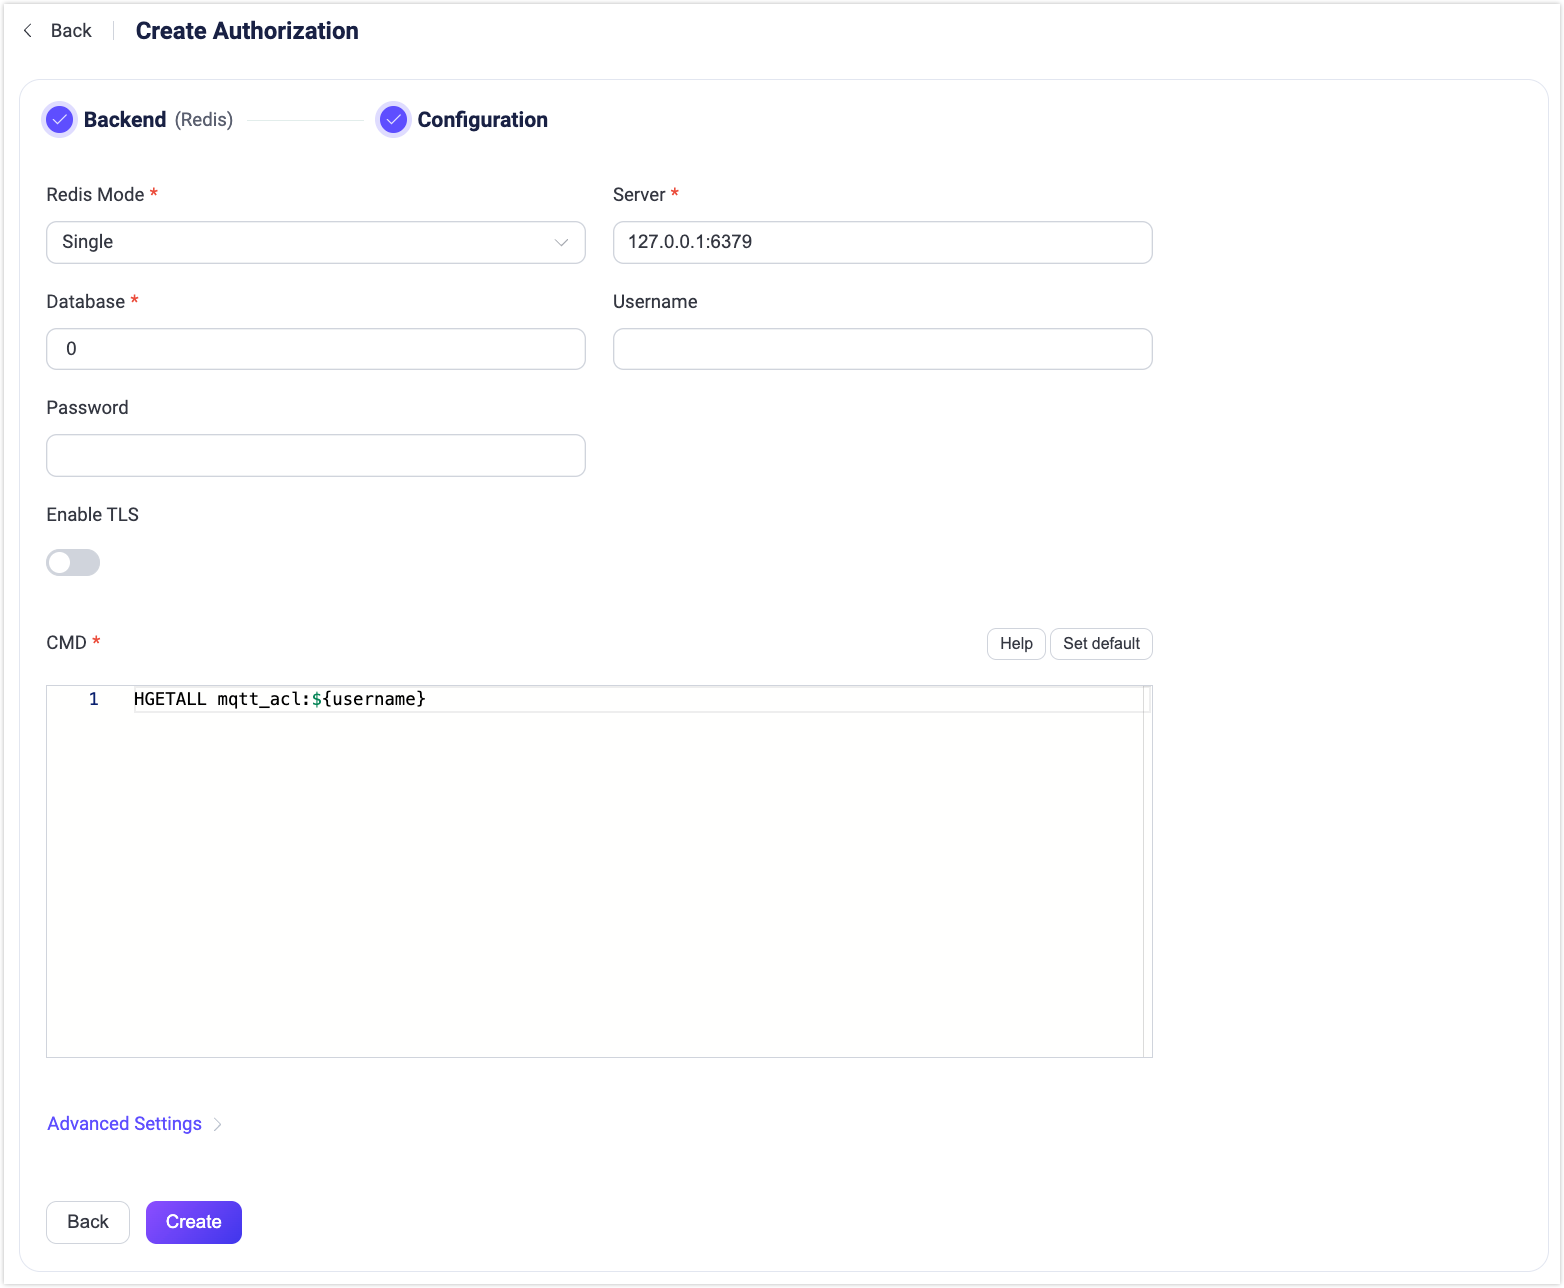
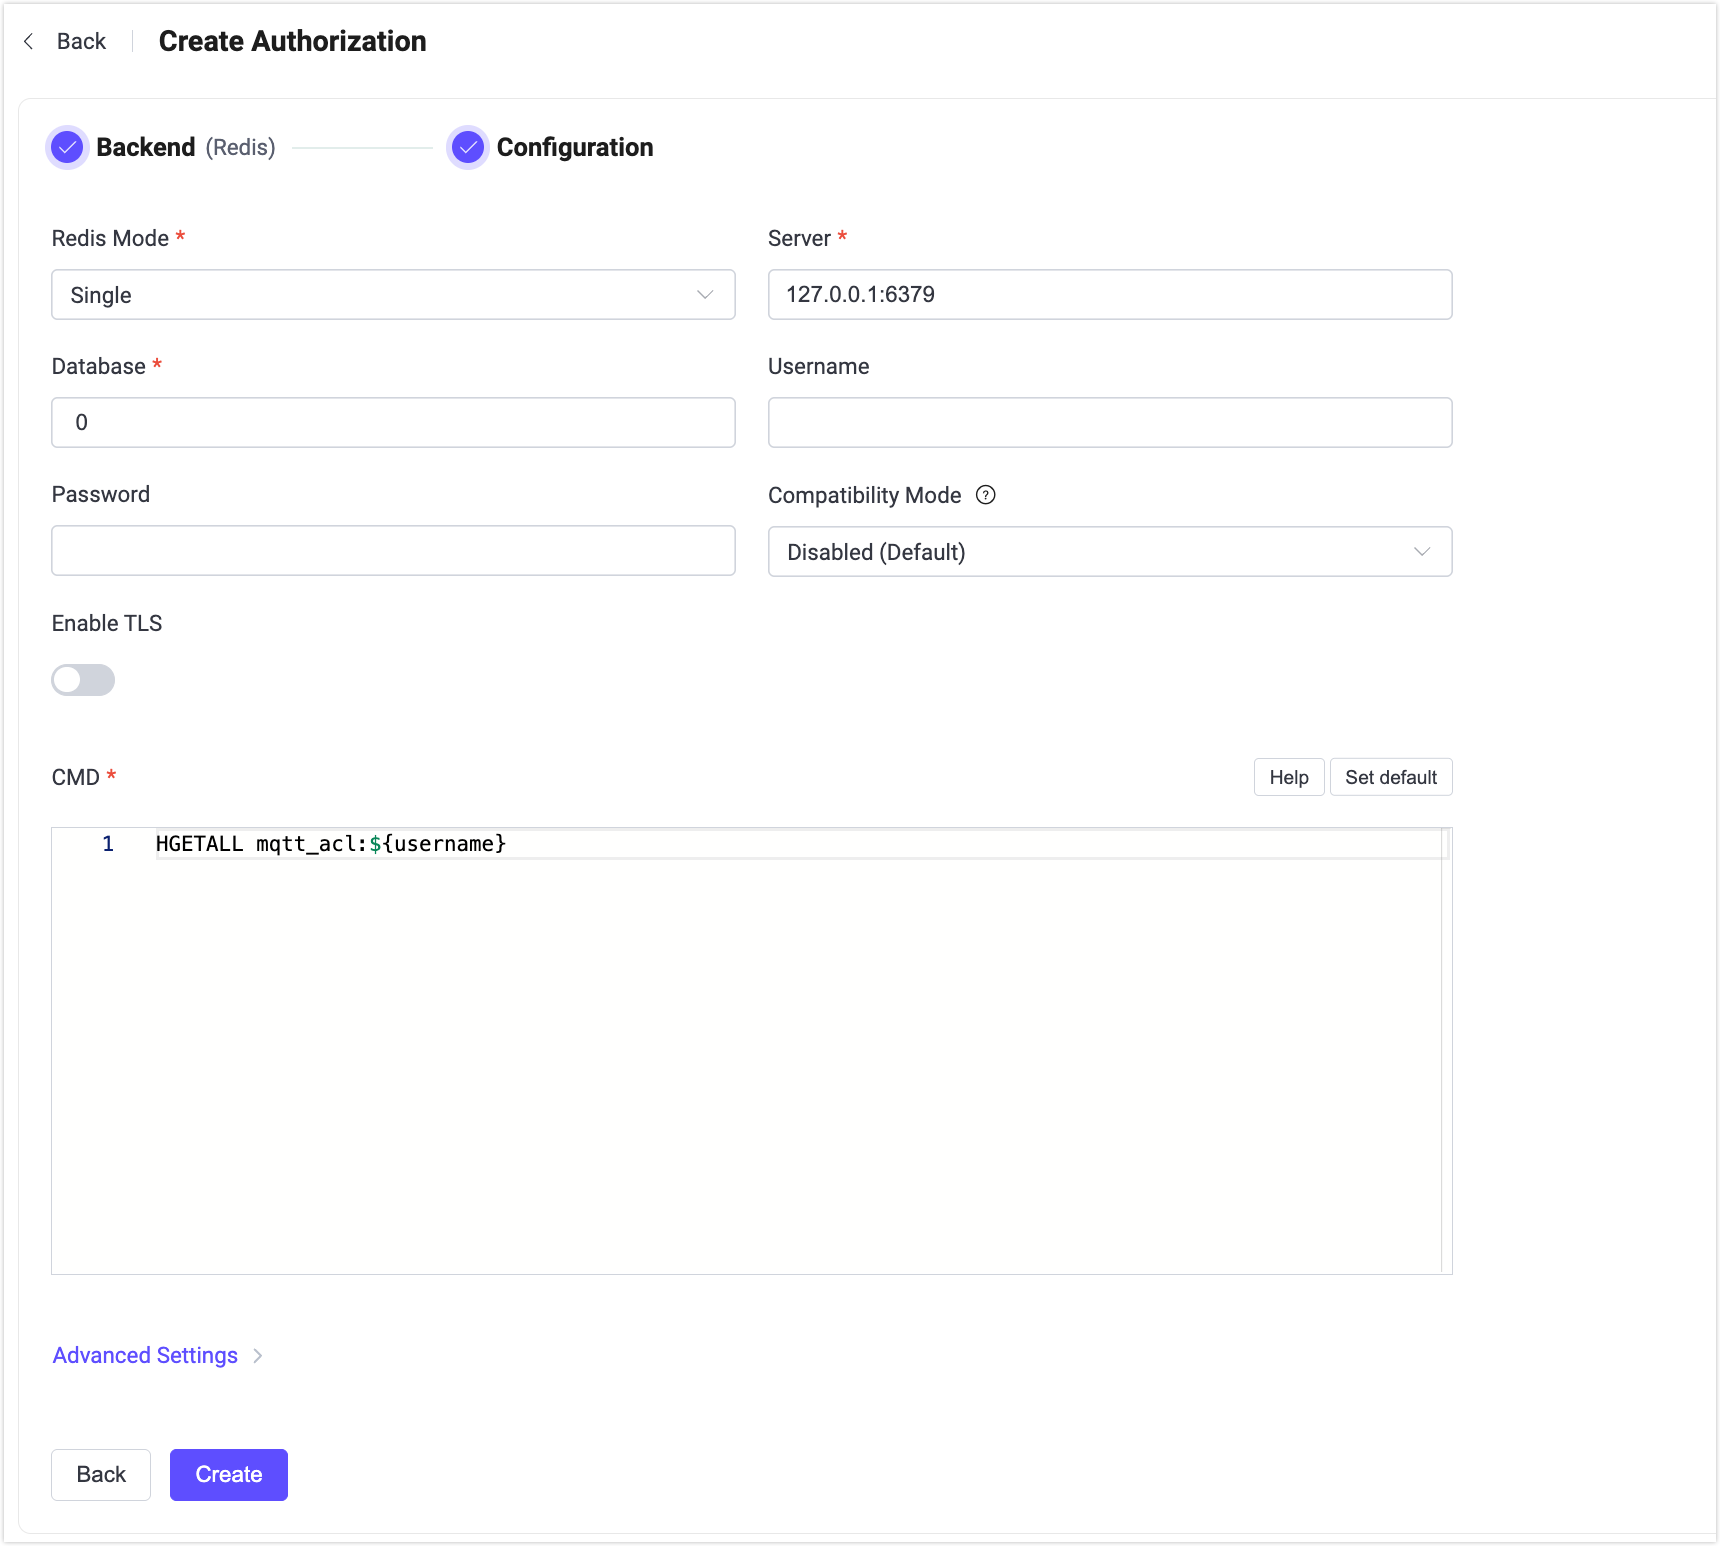
update(Redis authz): Add `Compatibility Mode` config
https://github.com/emqx/emqx/pull/16730

diff --git a/zh_CN/access-control/authz/redis.md b/zh_CN/access-control/authz/redis.md
@@ -77,10 +77,21 @@ Redis 授权器中添加的所有规则都是**允许**规则，即 Redis Author
      - 如果填写了用户名，则密码必须与 Redis ACL 中该用户配置的凭据一致。
      - 如果未填写用户名，则将使用该密码尝试以 `default` 用户身份进行身份认证（前提是该用户未被禁用）。
    
+   - **兼容模式**：控制是否启用与 EMQX 4.x Redis ACL 数据格式的兼容。
+
+     - `禁用（默认）`：使用当前规则格式。
+     - `v4`：启用对 EMQX 4.x 旧版 Redis ACL 数据的兼容，升级时可直接复用已有数据，无需修改。
+   
+     ::: tip
+   
+     该选项适用于从 EMQX 4.x 升级的场景，用于在不调整现有 Redis ACL 数据的情况下保持兼容。对于新部署，建议保持默认设置，并使用当前规则格式。
+   
+     :::
+   
    - **启用 TLS**：如果需要启用 TLS，加上开关即可开启。有关 TLS 配置的更多信息，请参阅[网络与 TLS](../../network/overview.md)。
-
+   
    - **命令**：根据数据结构填写 Redis 查询命令。
-
+   
    - **高级设置**：设置连接池大小和连接超时时间。
      - **连接池大小**（可选）：输入一个整数，表示每个 EMQX 节点与 Redis 建立的并发连接数量。默认值为 `8`。
    
@@ -88,13 +99,13 @@ Redis 授权器中添加的所有规则都是**允许**规则，即 Redis Author
 
 ## 使用配置项配置
 
-Redis 授权器由 `type=redis` 标识。<!--详细配置请参考 [redis_standalone](../../configuration/configuration-manual.html#authz:redis_standalone)、[authz:redis_sentinel](../../configuration/configuration-manual.html#authz:redis_sentinel) 与 [authz:redis_cluster](../../configuration/configuration-manual.html#authz:redis_cluster)。-->
+Redis 授权器由 `type=redis` 标识。
 
 Redis 授权器支持 3 种部署模式的 Redis。
 
 Standalone Redis:
 
-```hcl
+```hocon
 {
     type = redis
 
@@ -104,13 +115,14 @@ Standalone Redis:
     cmd = "HGETALL mqtt_user:${username}"
     database = 1
     password = public
-
+    
+    compatibility_mode = disabled
 }
 ```
 
 [Redis Sentinel](https://redis.io/docs/latest/operate/oss_and_stack/management/sentinel/):
 
-```hcl
+```hocon
 {
     type = redis
 
@@ -121,13 +133,14 @@ Standalone Redis:
     cmd = "HGETALL mqtt_user:${username}"
     database = 1
     password = public
-
+    
+    compatibility_mode = disabled
 }
 ```
 
 [Redis Cluster](https://redis.io/docs/latest/operate/oss_and_stack/management/scaling/):
 
-```hcl
+```hocon
 {
     type = redis
 
@@ -136,6 +149,8 @@ Standalone Redis:
 
     cmd = "HGETALL mqtt_user:${username}"
     password = public
+    
+    compatibility_mode = disabled
 }
 ```
 
@@ -149,7 +164,7 @@ Standalone Redis:
 
 ### cmd
 
-必选的字符串类型配置项。用于指定查询权限规则的命令，支持使用占位符。主题过滤器中允许使用 [主题占位符](./authz.md#主题占位符)。
+必选的字符串类型配置项。用于指定查询权限规则的命令，支持使用占位符。主题过滤器中允许使用[主题占位符](./authz.md#主题占位符)。
 
 ### database
 
@@ -157,7 +172,7 @@ Standalone Redis:
 
 ### password
 
-可选的字符串类型配置。指定用于 Redis [认证](https://redis.io/docs/latest/operate/oss_and_stack/management/security/#authentication) 的密码。
+可选的字符串类型配置。指定用于 Redis [认证](https://redis.io/docs/latest/operate/oss_and_stack/management/security/#authentication)的密码。
 
 ### auto_reconnect
 
@@ -191,4 +206,4 @@ Standalone Redis:
 
 #### sentinel
 
-必选的字符串类型配置。用于指定 Redis Sentinel 配置需要的 [主服务器名称](https://redis.io/docs/latest/operate/oss_and_stack/management/sentinel/#configuring-sentinel)。
+必选的字符串类型配置。用于指定 Redis Sentinel 配置需要的[主服务器名称](https://redis.io/docs/latest/operate/oss_and_stack/management/sentinel/#configuring-sentinel)。

diff --git a/en_US/access-control/authz/redis.md b/en_US/access-control/authz/redis.md
@@ -64,8 +64,11 @@ You can use EMQX Dashboard to configure how to use Redis for user authorization.
 3. Follow the instructions below to configure the settings.
 
    - **Redis Mode**: Select how Redis is deployed, including `Single`, `Sentinel` and `Cluster`.
+
    - **Server**: Specify the server address that EMQX is to connect (`host:port`).
+
    - **Database**: Redis database name.
+
    - **Username**: Specify the Redis username to connect with. This field is required if your Redis instance uses [Redis ACL](https://redis.io/docs/latest/operate/oss_and_stack/management/security/acl/#create-and-edit-user-acls-with-the-acl-setuser-command) (introduced in Redis 6.0) for authentication. If your Redis server uses the default user (with ACLs disabled or not enforced), you can leave this field blank.
 
      ::: tip
@@ -73,10 +76,22 @@ You can use EMQX Dashboard to configure how to use Redis for user authorization.
      The `username` field is supported starting from EMQX 5.2.0. Ensure your deployment is running this version or later to use Redis ACL.
 
      :::
+     
    - **Password**: Specify the password for the Redis user. The field is required for connecting to Redis instances with authentication enabled.
 
      - If you have entered a username, this password must match the credentials configured in your Redis ACL settings.
      - If no username is provided, this password will be used to authenticate as the `default` user (if enabled).
+
+   - **Compatibility Mode**: Controls whether to enable compatibility with the EMQX 4.x Redis ACL data format.
+
+     - `Disabled (Default)`: Use the current rule format.
+     - `v4`: Enable compatibility with legacy EMQX 4.x Redis ACL data, allowing reuse of existing data without modification during upgrades.
+
+     ::: tip
+
+     This option is intended for upgrade scenarios where existing Redis ACL data created by EMQX 4.x must be reused without modification. For new deployments, it is recommended to keep this option disabled and use the current rule format.
+
+     :::
 
    - **Enable TLS**: Turn on the toggle switch if you want to enable TLS. 
 
@@ -91,7 +106,7 @@ You can use EMQX Dashboard to configure how to use Redis for user authorization.
 
 You can configure the EMQX Redis authorizer with EMQX configuration items.
 
-The Redis authorizer is identified by type `redis`. The authorizer supports connecting to Redis running in 3 types of deployment modes. <!--For detailed configuration information, see: [redis_single](../../configuration/configuration-manual.html#authz:redis_single), [authz:redis_sentinel](../../configuration/configuration-manual.html#authz:redis_sentinel), and [authz:redis_cluster](../../configuration/configuration-manual.html#authz:redis_cluster).-->
+The Redis authorizer is identified by type `redis`. The authorizer supports connecting to Redis running in 3 types of deployment modes. 
 
 Sample configuration:
 
@@ -99,7 +114,7 @@ Sample configuration:
 
 ::: tab Single
 
-```bash
+```hocon
 {
     type = redis
 
@@ -109,7 +124,8 @@ Sample configuration:
     cmd = "HGETALL mqtt_user:${username}"
     database = 1
     password = public
-
+    
+    compatibility_mode = disabled
 }
 ```
 
@@ -117,7 +133,7 @@ Sample configuration:
 
 ::: tab Sentinel
 
-```bash
+```hocon
 {
     type = redis
 
@@ -128,7 +144,8 @@ Sample configuration:
     cmd = "HGETALL mqtt_user:${username}"
     database = 1
     password = public
-
+    
+    compatibility_mode = disabled
 }
 ```
 
@@ -136,7 +153,7 @@ Sample configuration:
 
 ::: tab Cluster
 
-```bash
+```hocon
 {
     type = redis
 
@@ -145,9 +162,13 @@ Sample configuration:
 
     cmd = "HGETALL mqtt_user:${username}"
     password = public
+    
+    compatibility_mode = disabled
 }
 ```
 
 :::
 
 ::::
+
+> `compatibility_mode` can be set to `v4` when upgrading from EMQX 4.x and reusing legacy Redis ACL data.
